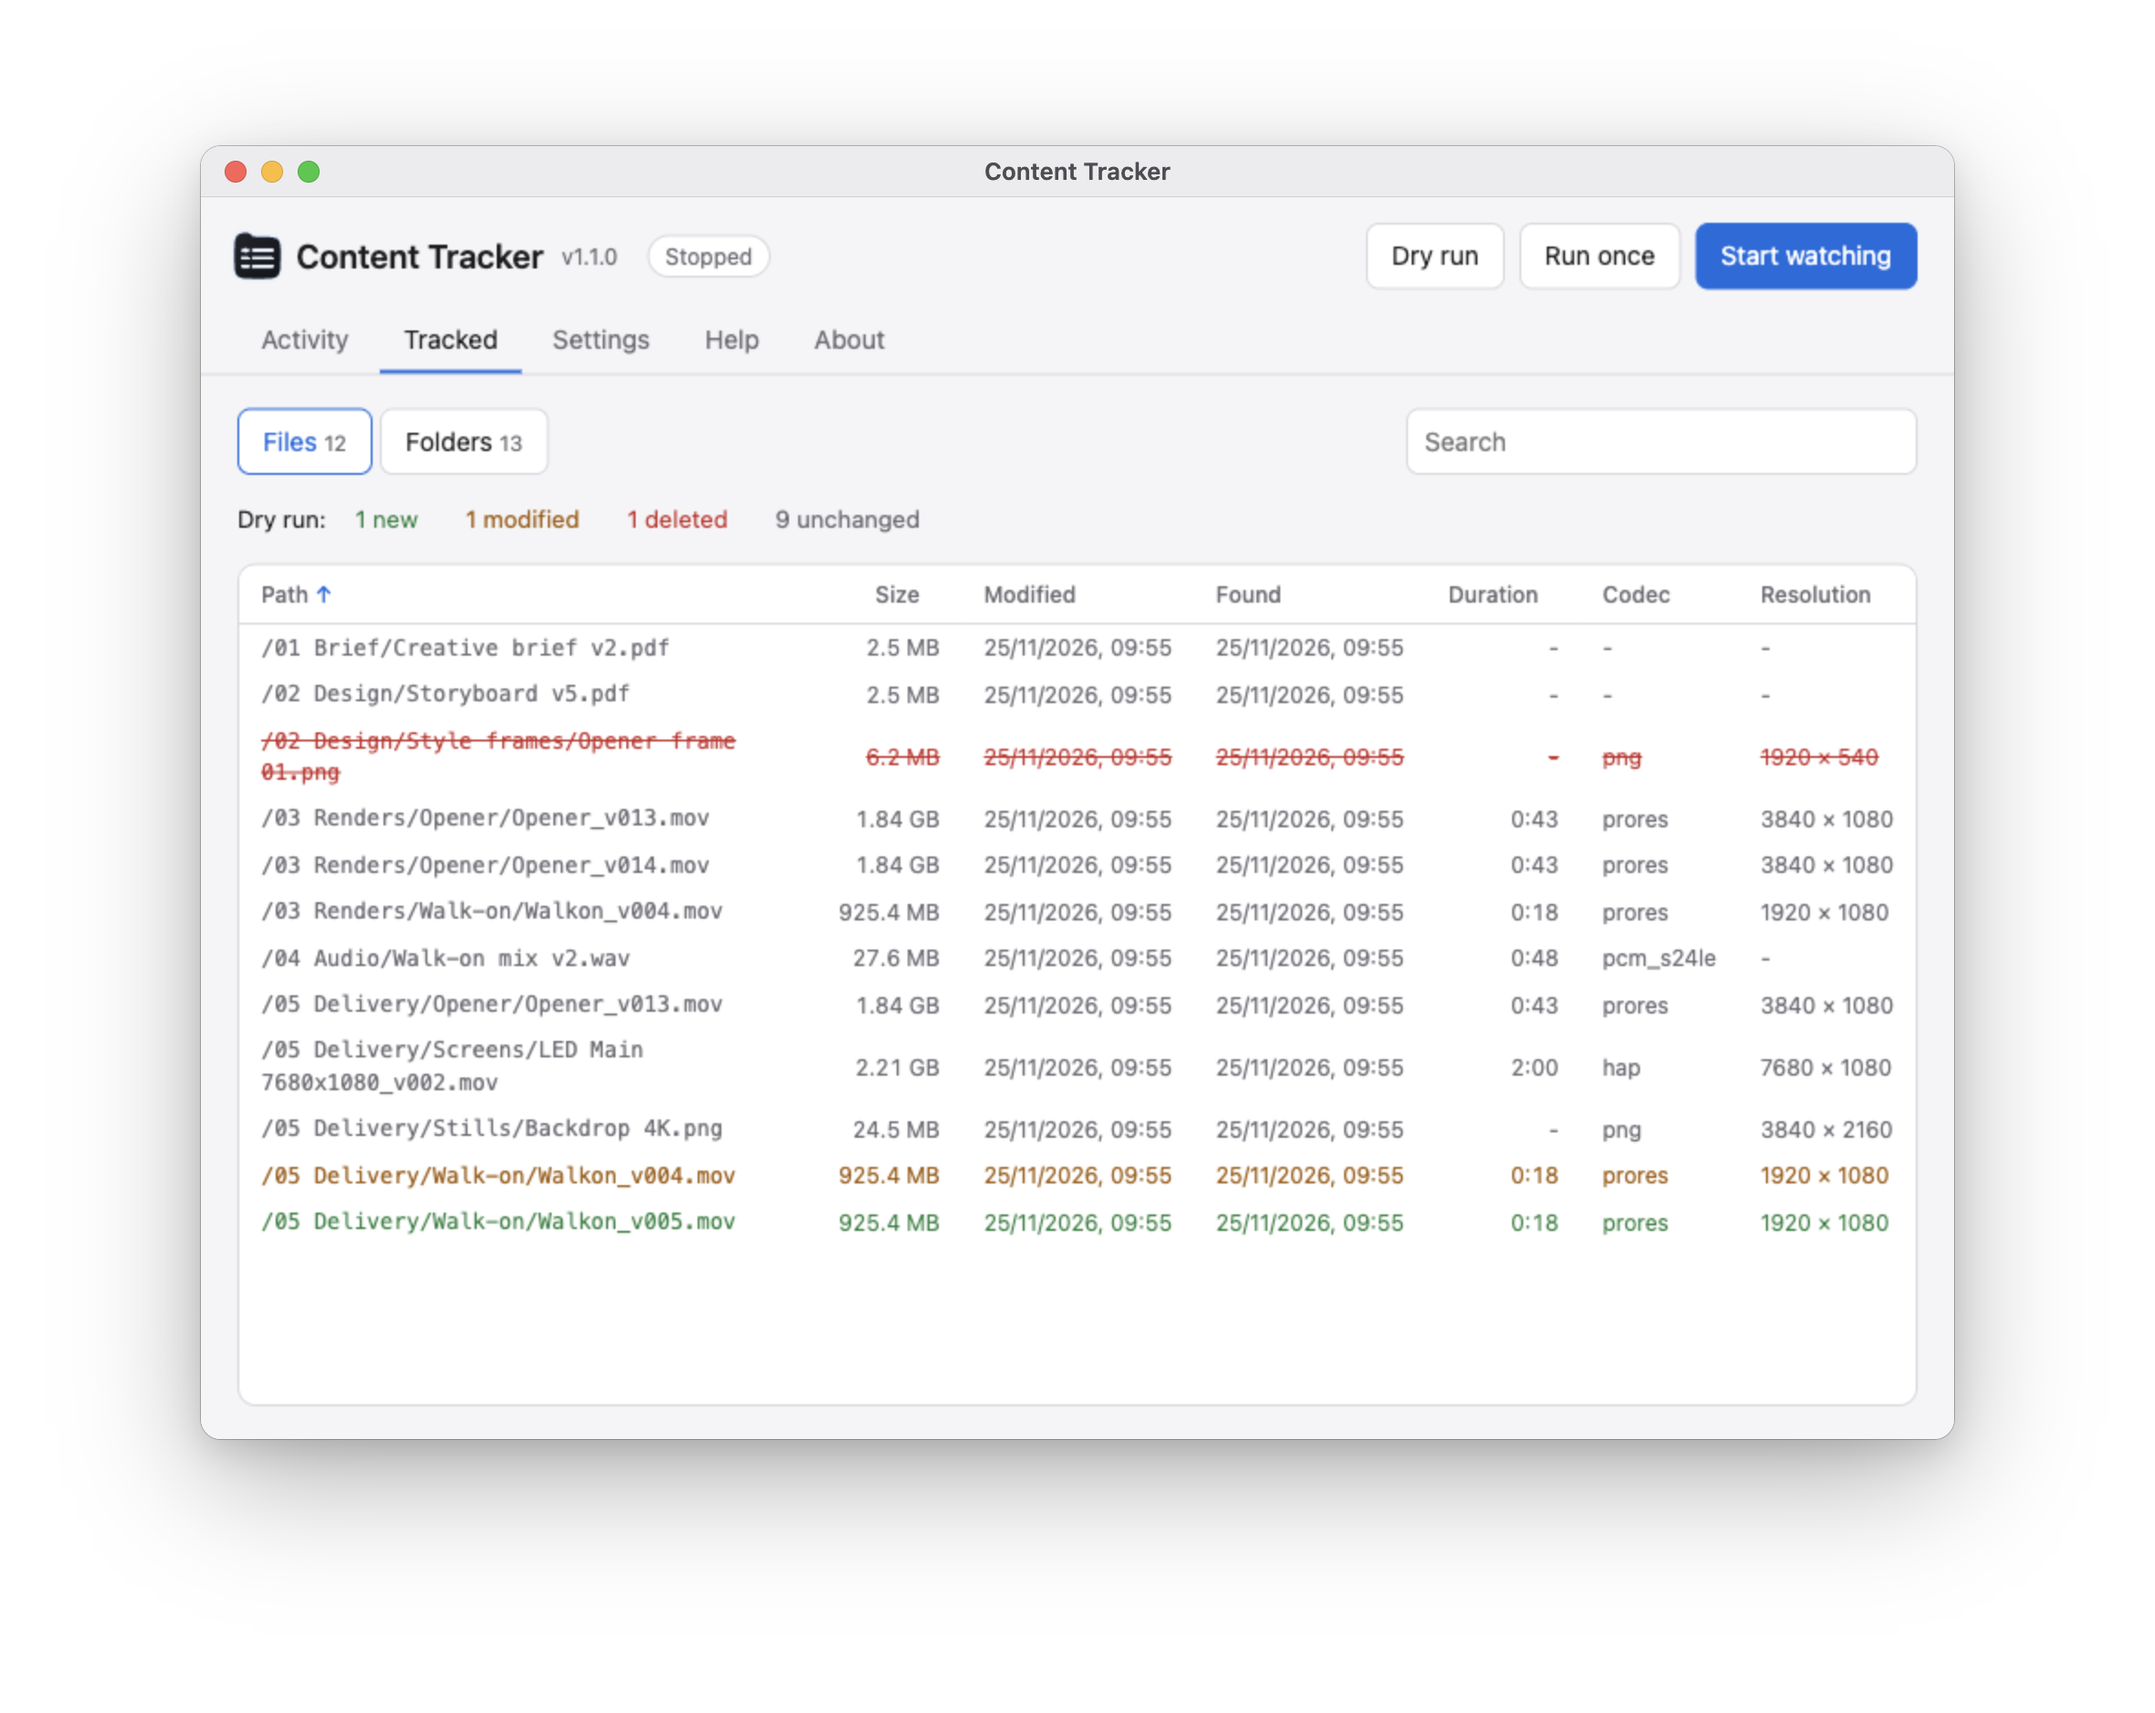
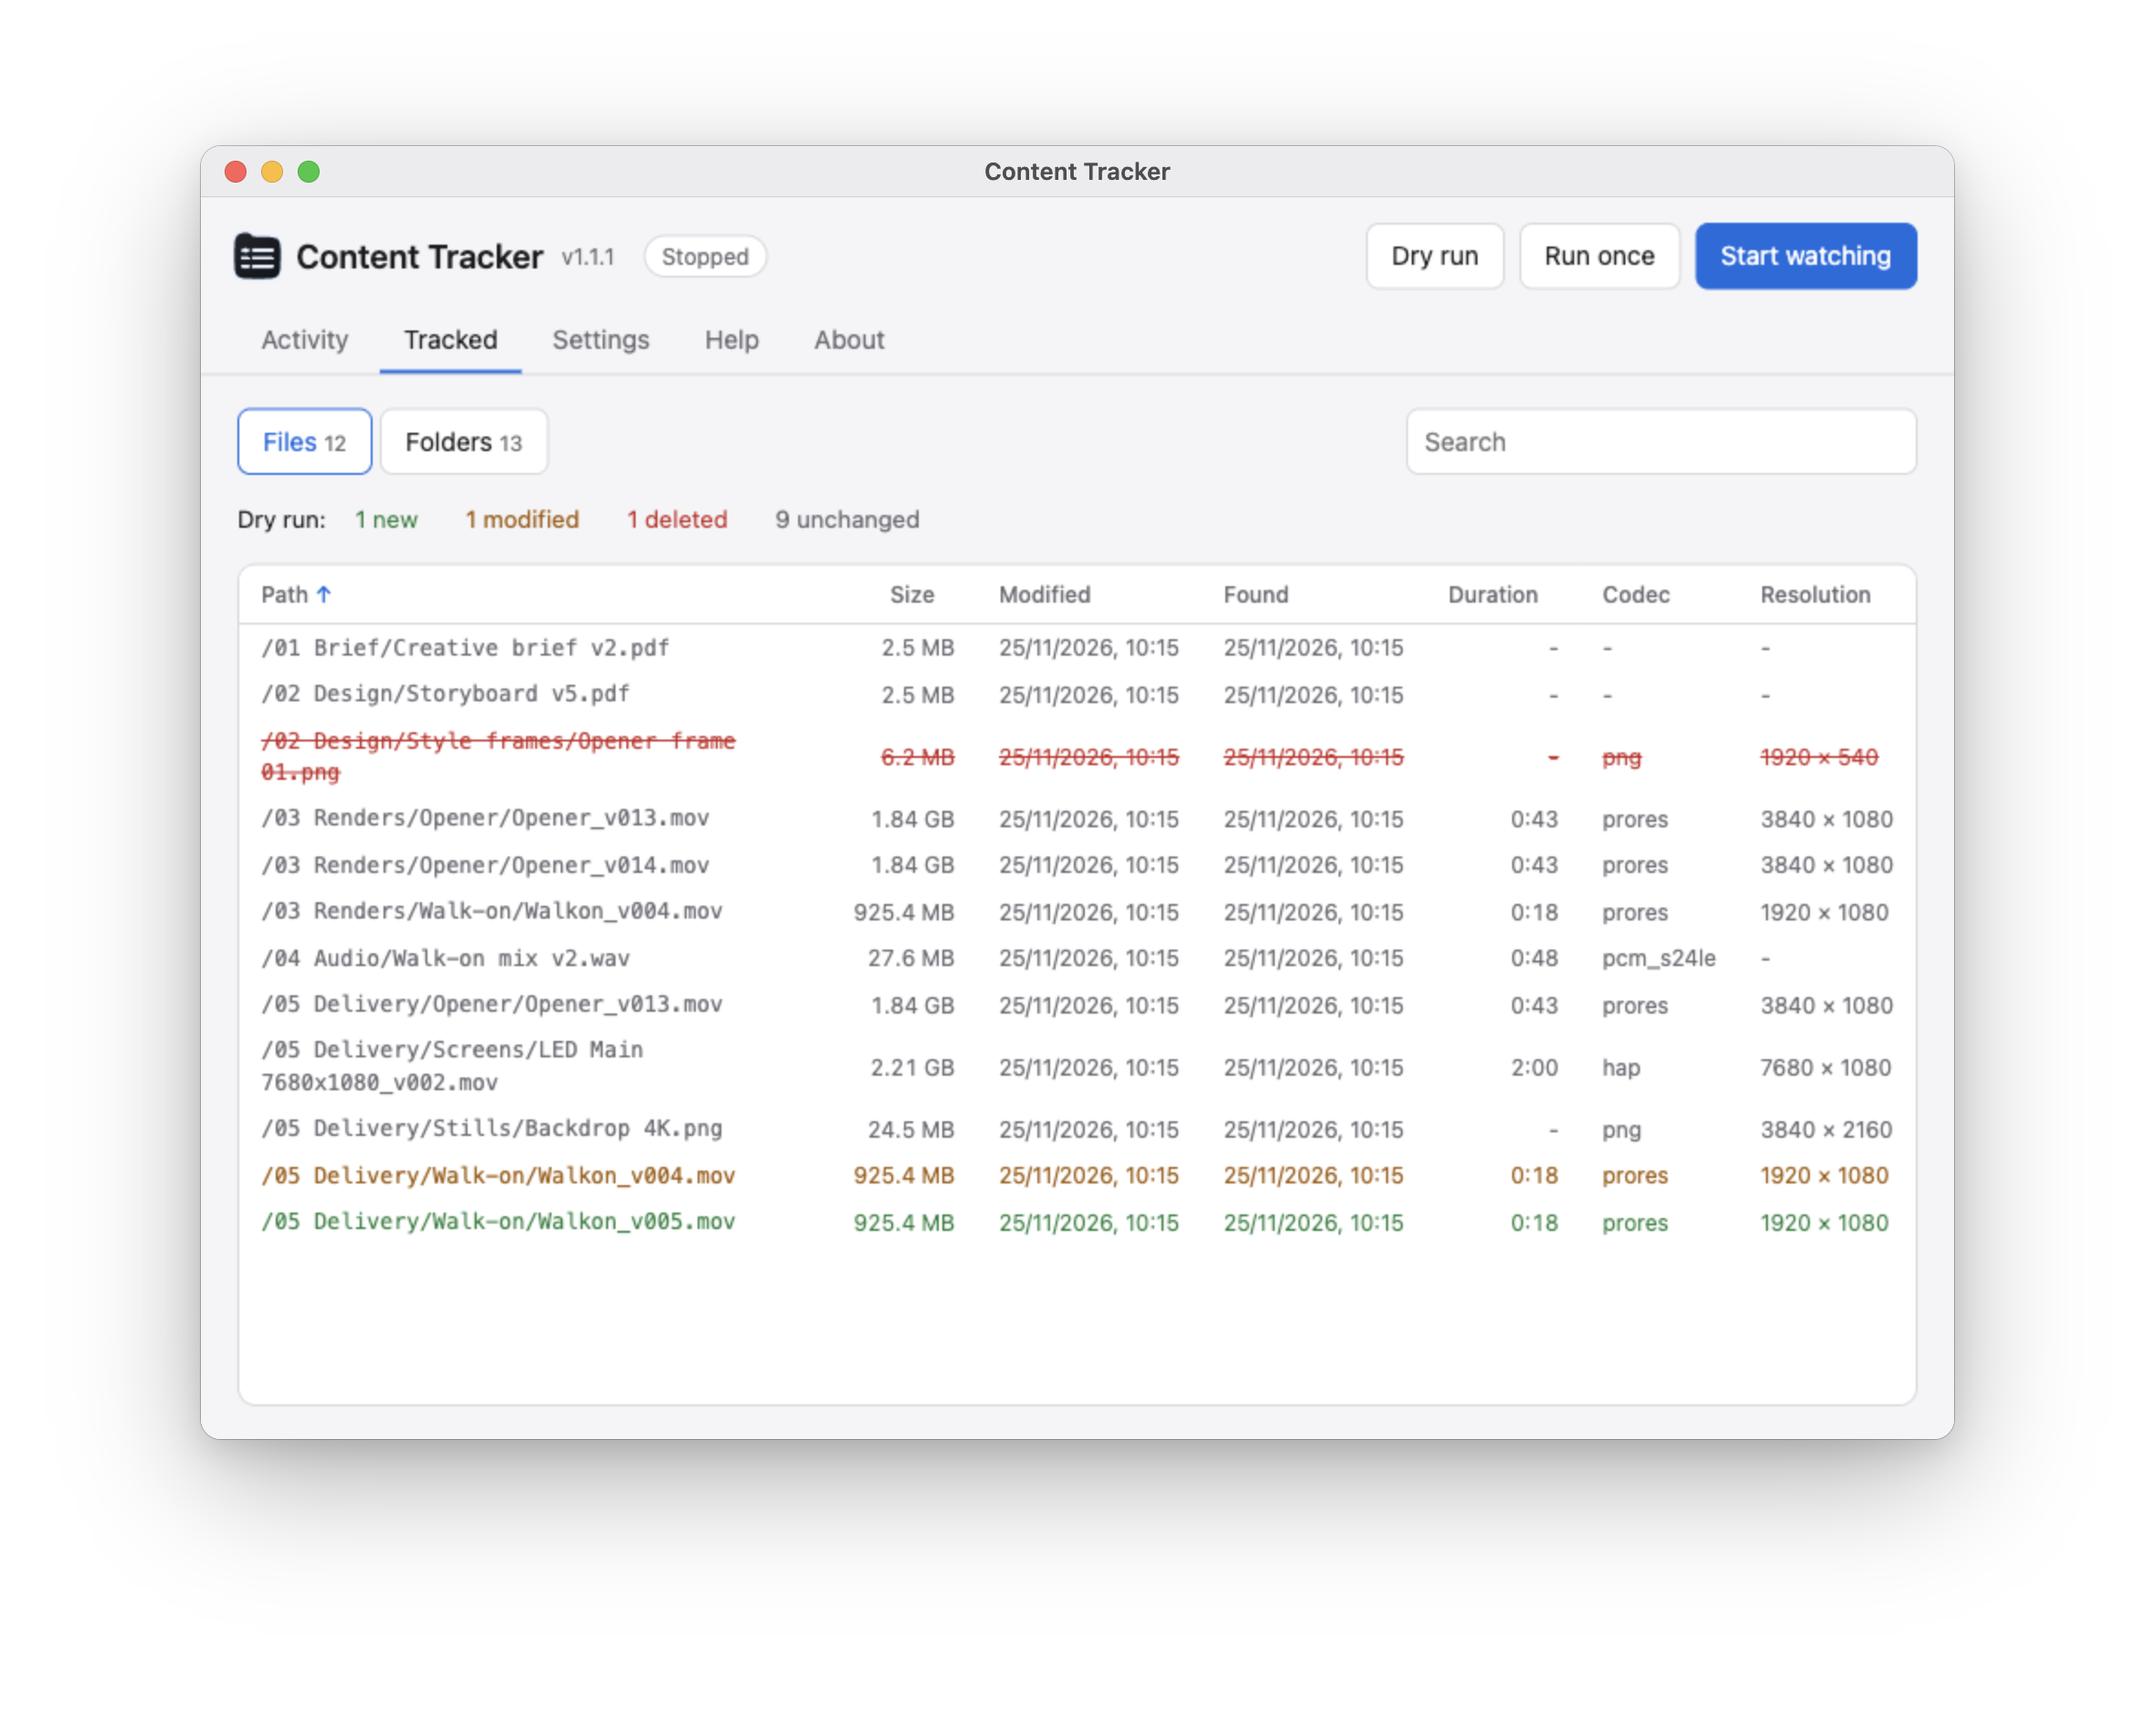
Second time lucky; 1.1.1
- The Linux app's program is content-tracker: electron-builder named it after
  the package, @garethnunns/content-tracker, and wouldn't build an AppImage
  with an @ and a / in a file name, which stopped 1.1.0's apps building at all.
  Its category is Utility, rather than one guessed from the Mac's.
- Tried in a Linux container: the AppImage builds
- The screenshots take share.png, the app at 1200 x 630 with no window round it,
  for the store to show where its page is shared
- The pictures taken again, for 1.1.1

Changed region(s): [[0.3712, 0.3401, 0.6496, 0.742], [0.3093, 0.1237, 0.3403, 0.1546]]

diff --git a/docs/release-notes/1.1.1.md b/docs/release-notes/1.1.1.md
@@ -1,0 +1,3 @@
+## Fixed
+
+- All the same as 1.1.0, but hopefully the apps build
